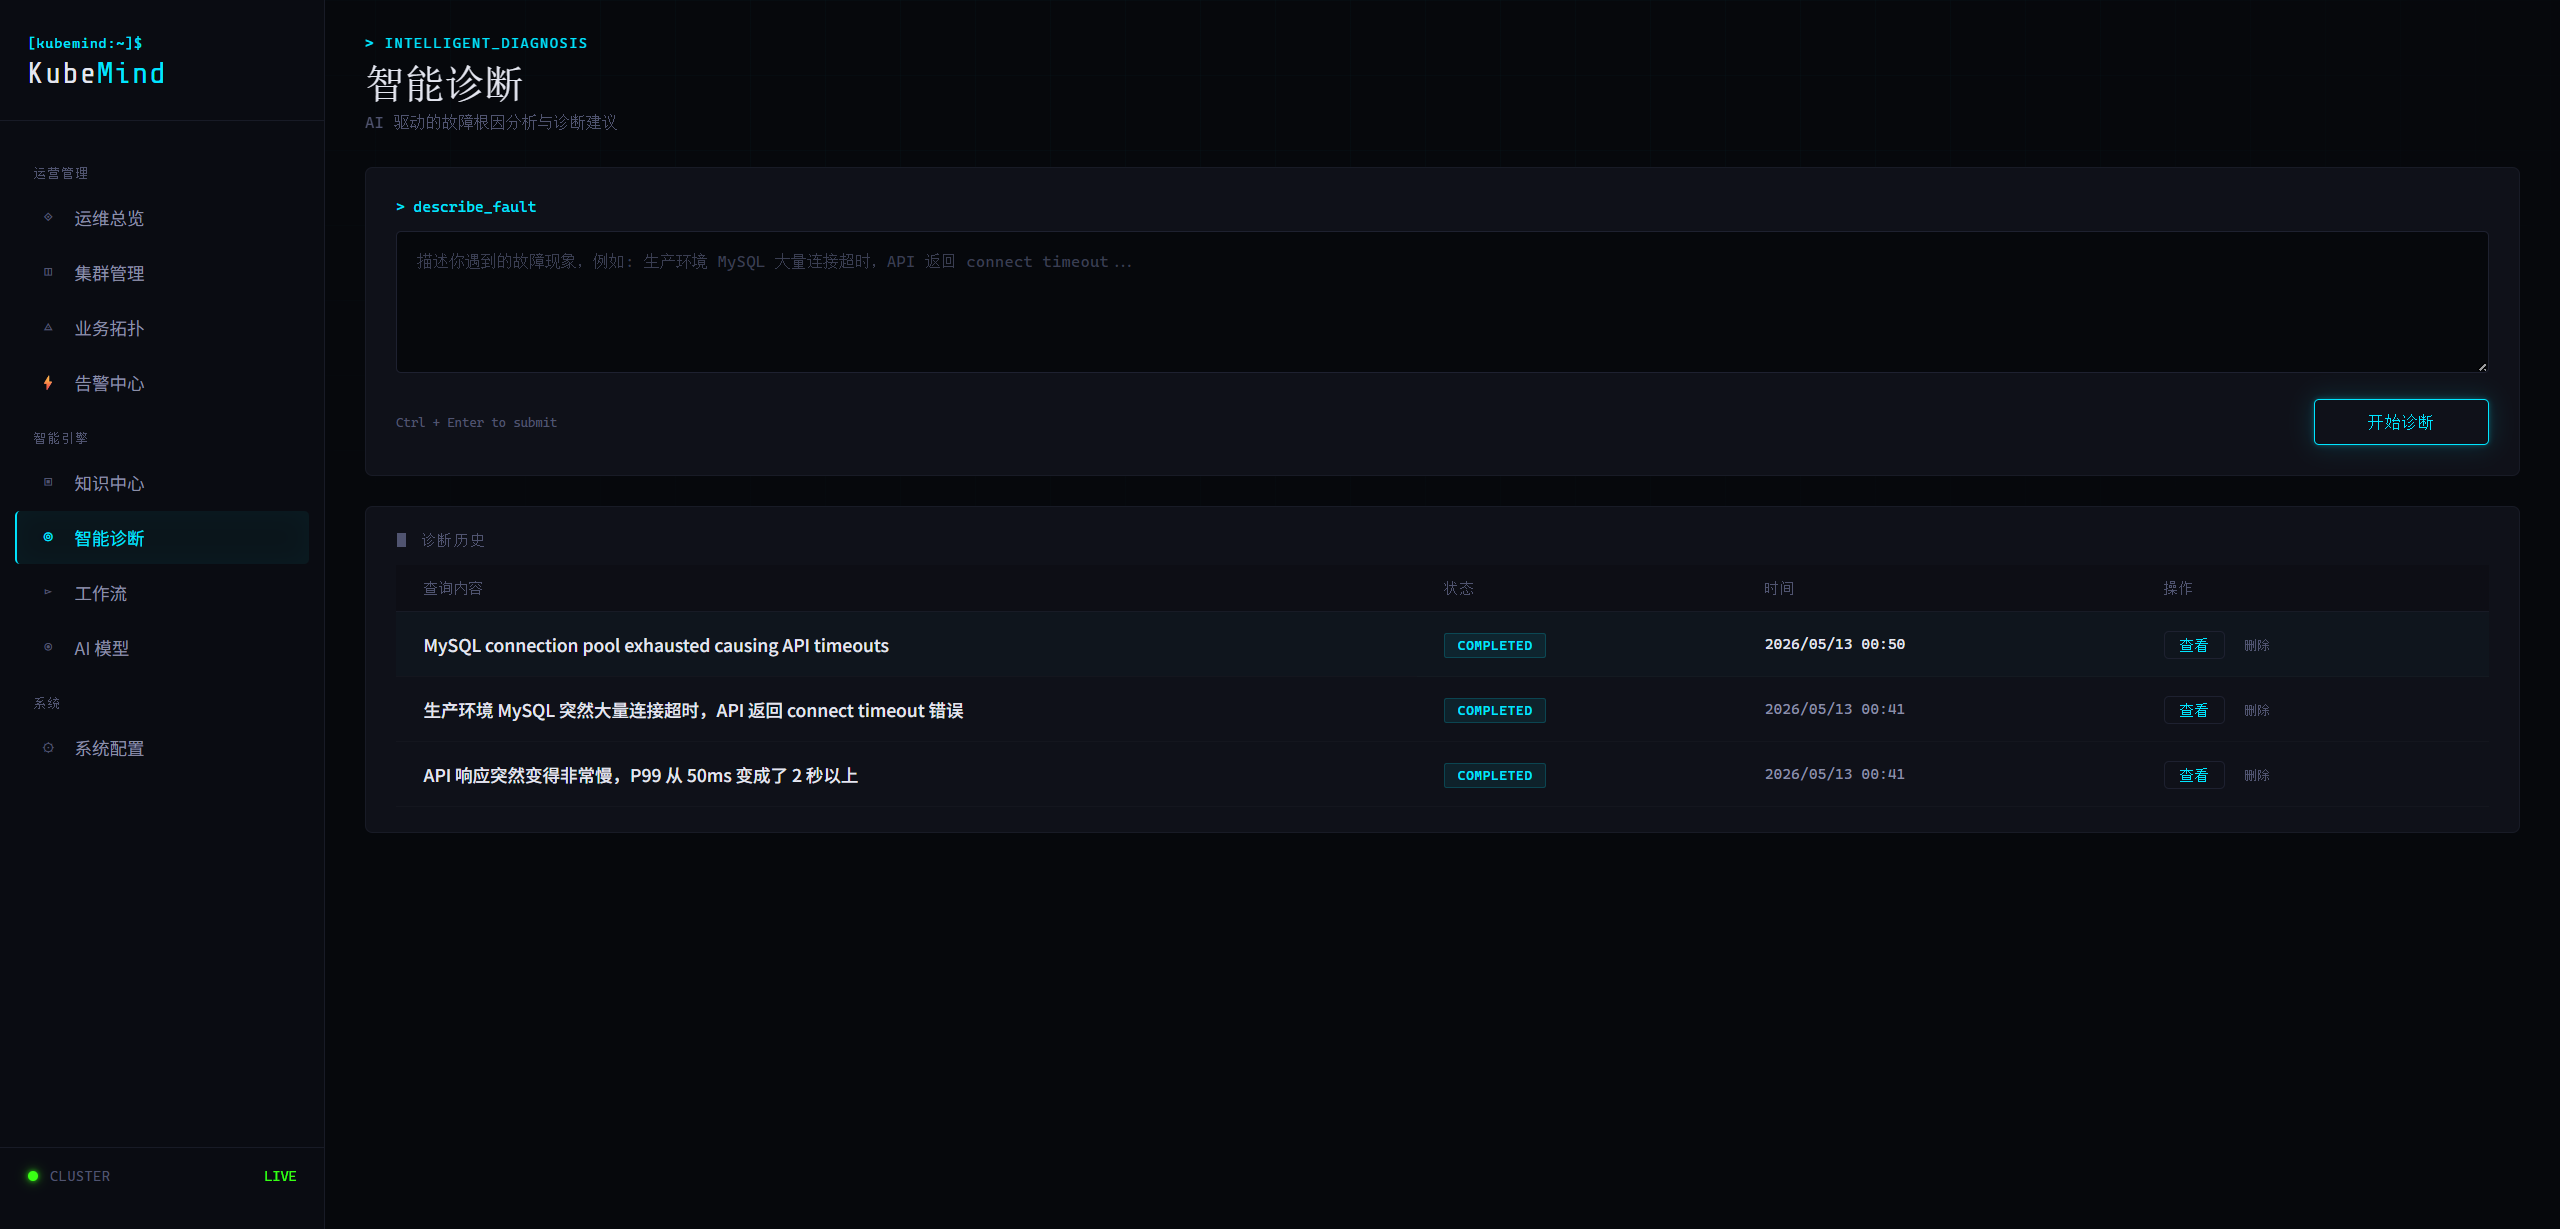
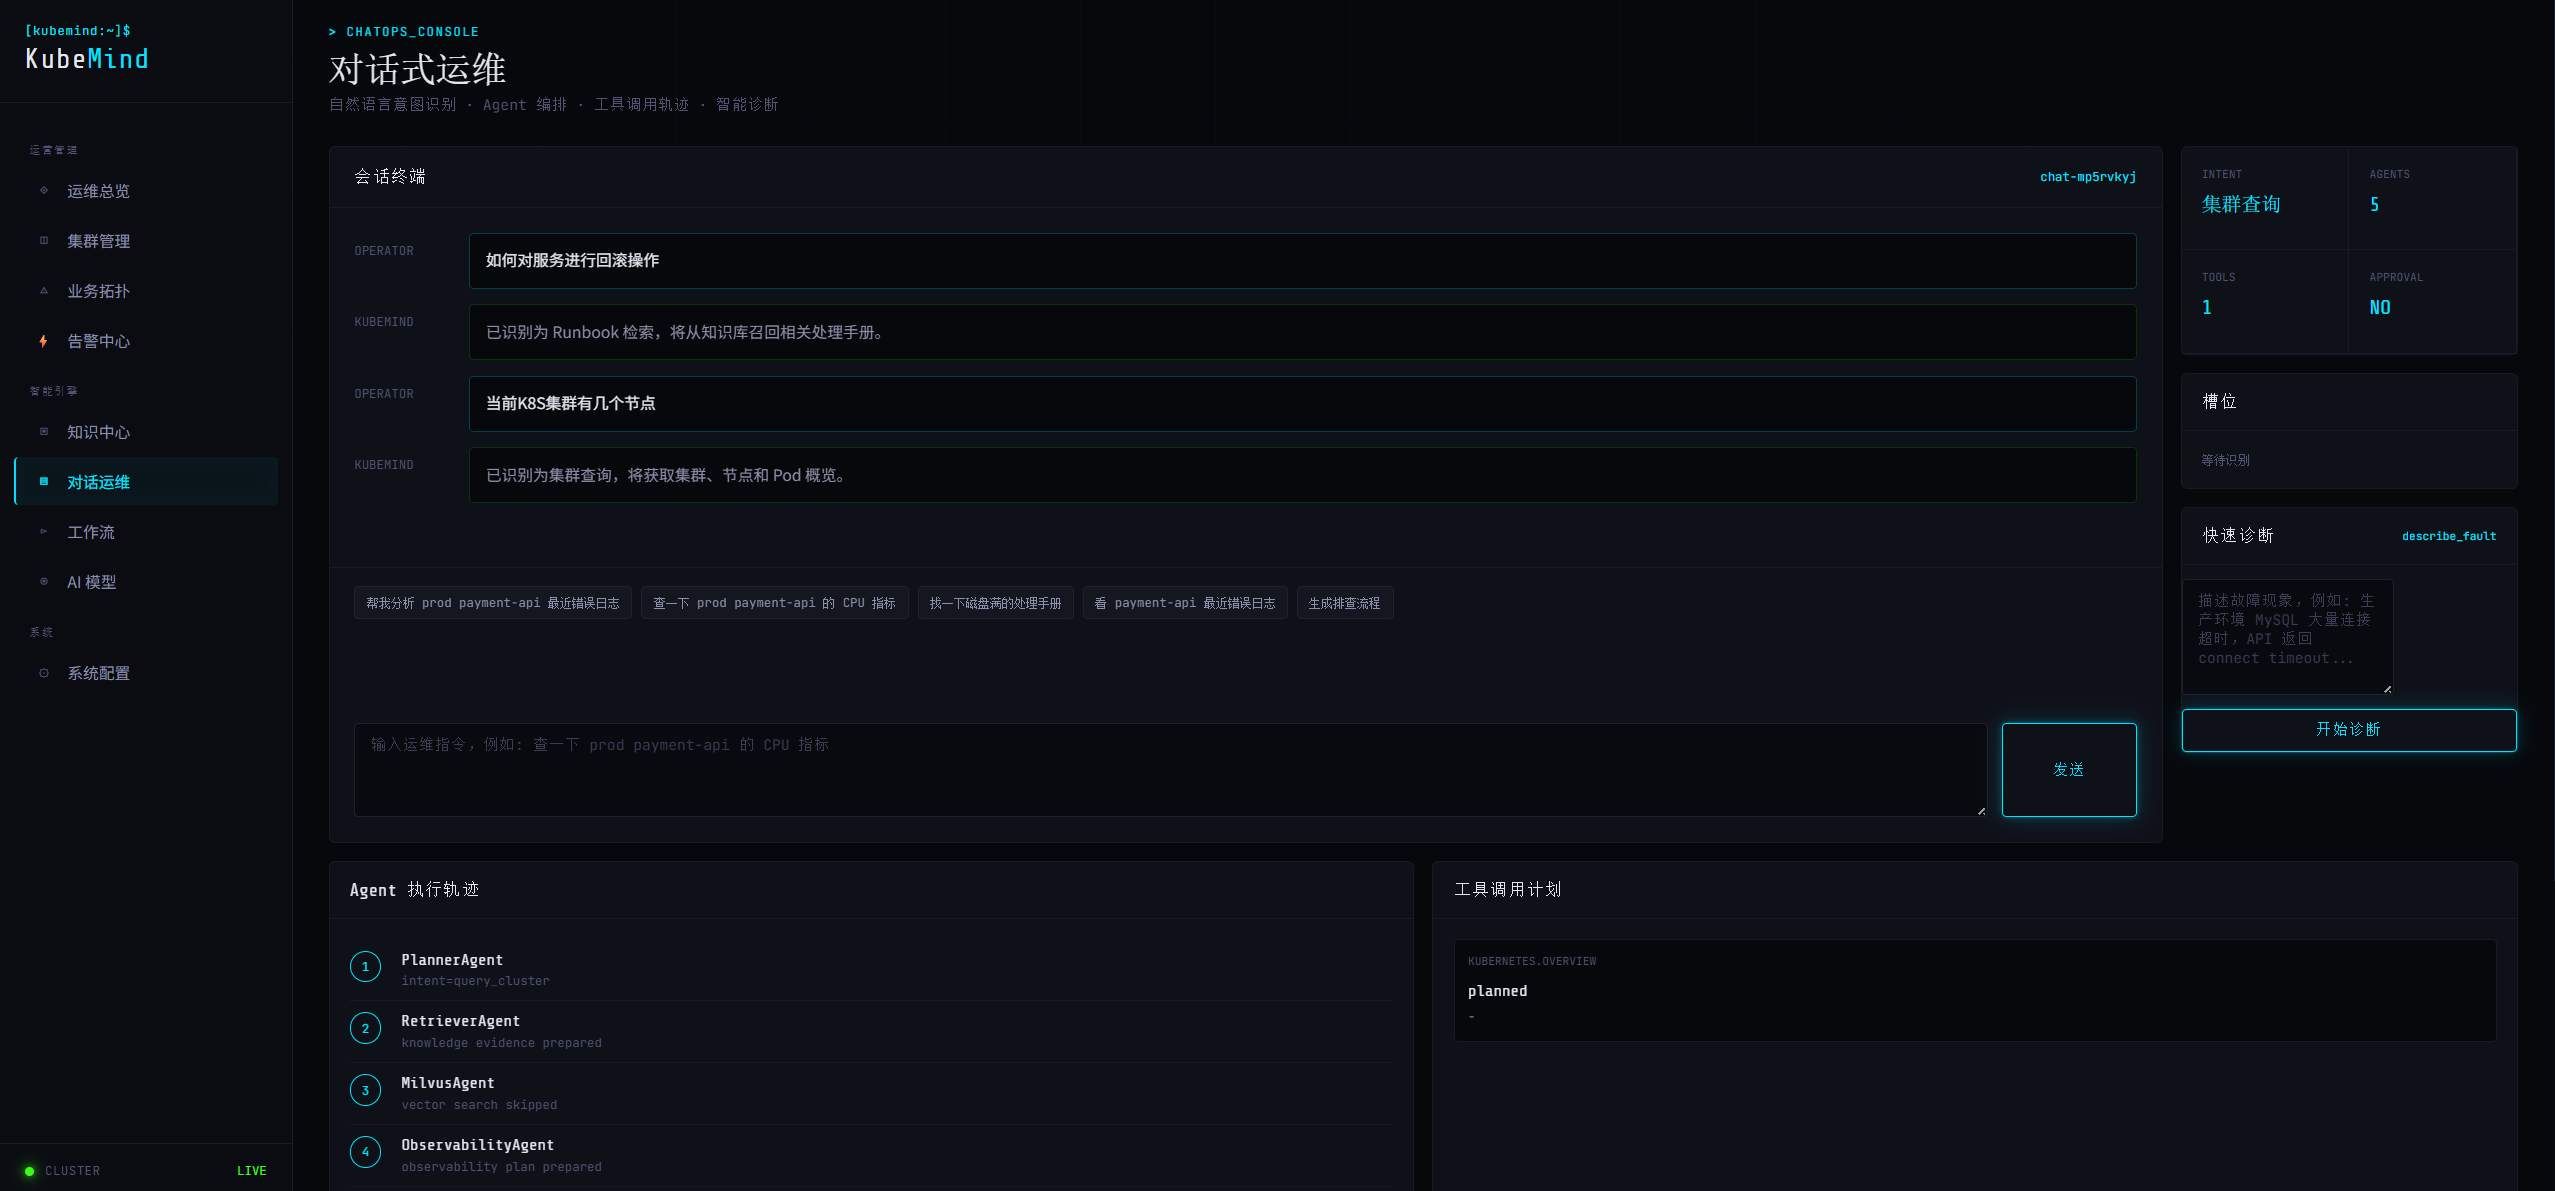
feat: 引入 LangChain 重构 LLM 层，支持混合意图识别策略，更新相关依赖

diff --git a/backend/app/services/llm.py b/backend/app/services/llm.py
@@ -1,9 +1,9 @@
-"""LLM chat completion service — OpenAI-compatible (DeepSeek, OpenAI, etc.)."""
+"""LLM chat completion service — powered by LangChain (OpenAI-compatible)."""
 
-import json
-import urllib.request
 from collections.abc import Generator
 
+from langchain_core.messages import AIMessage, BaseMessage, HumanMessage, SystemMessage
+from langchain_openai import ChatOpenAI
 from sqlalchemy.orm import Session
 
 from app.models.model_config import ModelConfig
@@ -21,6 +21,42 @@ def get_active_llm_config(db: Session) -> ModelConfig | None:
     )
 
 
+def _resolve_config(db: Session, config: ModelConfig | None) -> ModelConfig:
+    if config is None:
+        config = get_active_llm_config(db)
+    if not config:
+        raise LLMError("No active LLM config found")
+    if not config.api_key:
+        raise LLMError("LLM config has no API key")
+    return config
+
+
+def _build_chat_model(config: ModelConfig, temperature: float, max_tokens: int) -> ChatOpenAI:
+    return ChatOpenAI(
+        model=config.model_name,
+        api_key=config.api_key,
+        base_url=f"{config.endpoint.rstrip('/')}",
+        temperature=temperature,
+        max_tokens=max_tokens,
+        timeout=60,
+        max_retries=2,
+    )
+
+
+def _to_langchain_messages(messages: list[dict]) -> list[BaseMessage]:
+    result: list[BaseMessage] = []
+    for msg in messages:
+        role = msg.get("role", "user")
+        content = msg.get("content", "")
+        if role == "system":
+            result.append(SystemMessage(content=content))
+        elif role == "assistant":
+            result.append(AIMessage(content=content))
+        else:
+            result.append(HumanMessage(content=content))
+    return result
+
+
 def chat_completion(
     db: Session,
     messages: list[dict],
@@ -28,31 +64,10 @@ def chat_completion(
     temperature: float = 0.3,
     max_tokens: int = 2048,
 ) -> str:
-    if config is None:
-        config = get_active_llm_config(db)
-    if not config:
-        raise LLMError("No active LLM config found")
-    if not config.api_key:
-        raise LLMError("LLM config has no API key")
-
-    payload = json.dumps({
-        "model": config.model_name,
-        "messages": messages,
-        "temperature": temperature,
-        "max_tokens": max_tokens,
-    }).encode("utf-8")
-
-    req = urllib.request.Request(
-        f"{config.endpoint.rstrip('/')}/chat/completions",
-        data=payload,
-        headers={
-            "Content-Type": "application/json",
-            "Authorization": f"Bearer {config.api_key}",
-        },
-    )
-    with urllib.request.urlopen(req, timeout=60) as resp:
-        body = json.loads(resp.read().decode("utf-8"))
-    return body["choices"][0]["message"]["content"]
+    config = _resolve_config(db, config)
+    model = _build_chat_model(config, temperature, max_tokens)
+    result = model.invoke(_to_langchain_messages(messages))
+    return result.content
 
 
 def chat_completion_stream(
@@ -62,44 +77,9 @@ def chat_completion_stream(
     temperature: float = 0.3,
     max_tokens: int = 2048,
 ) -> Generator[str, None, None]:
-    """Stream chat completion tokens via SSE from an OpenAI-compatible endpoint."""
-    if config is None:
-        config = get_active_llm_config(db)
-    if not config:
-        raise LLMError("No active LLM config found")
-    if not config.api_key:
-        raise LLMError("LLM config has no API key")
-
-    payload = json.dumps({
-        "model": config.model_name,
-        "messages": messages,
-        "temperature": temperature,
-        "max_tokens": max_tokens,
-        "stream": True,
-    }).encode("utf-8")
-
-    req = urllib.request.Request(
-        f"{config.endpoint.rstrip('/')}/chat/completions",
-        data=payload,
-        headers={
-            "Content-Type": "application/json",
-            "Authorization": f"Bearer {config.api_key}",
-        },
-    )
-    with urllib.request.urlopen(req, timeout=120) as resp:
-        for line in resp:
-            line = line.decode("utf-8").strip()
-            if not line or line.startswith(":"):
-                continue
-            if line == "data: [DONE]":
-                break
-            if line.startswith("data: "):
-                data_str = line[6:]
-                try:
-                    chunk = json.loads(data_str)
-                    delta = chunk.get("choices", [{}])[0].get("delta", {})
-                    content = delta.get("content", "")
-                    if content:
-                        yield content
-                except json.JSONDecodeError:
-                    continue
+    """Stream chat completion tokens via LangChain's streaming interface."""
+    config = _resolve_config(db, config)
+    model = _build_chat_model(config, temperature, max_tokens)
+    for chunk in model.stream(_to_langchain_messages(messages)):
+        if chunk.content:
+            yield chunk.content

diff --git a/backend/app/agents/intent.py b/backend/app/agents/intent.py
@@ -1,5 +1,6 @@
 import re
 
+from sqlalchemy.orm import Session
 
 NAMESPACE_PATTERN = re.compile(r"\b(default|prod|dev|test|staging|kube-system)\b", re.IGNORECASE)
 WORKLOAD_PATTERN = re.compile(r"\b([a-z][a-z0-9-]*(?:api|server|service|worker|gateway)[a-z0-9-]*)\b", re.IGNORECASE)
@@ -13,15 +14,18 @@ _GENERAL_CHAT_KEYWORDS = (
 
 _FAULT_KEYWORDS = ("分析", "诊断", "故障", "异常", "超时", "排查问题", "出问题")
 
+_VALID_INTENTS = frozenset({
+    "general_chat", "query_metric", "query_logs", "diagnose_issue",
+    "search_runbook", "create_workflow", "query_cluster",
+})
 
-def classify_intent(message: str) -> str:
+
+def _classify_by_keywords(message: str) -> str | None:
+    """Fast keyword-based classification. Returns None if no confident match."""
     text = message.lower()
 
-    # General chat takes priority — these are not operational requests
     if any(kw in text for kw in _GENERAL_CHAT_KEYWORDS):
         return "general_chat"
-
-    # Explicit operational intents
     if any(keyword in text for keyword in ("生成排查流程", "创建流程", "create workflow")):
         return "create_workflow"
     if any(keyword in text for keyword in ("milvus", "向量库", "向量数据库", "vector")):
@@ -39,7 +43,54 @@ def classify_intent(message: str) -> str:
     if any(keyword in text for keyword in ("集群", "节点", "pod")):
         return "query_cluster"
 
-    # Anything unrecognized is general chat, not a fault
+    return None
+
+
+def _classify_by_llm(message: str, db: Session) -> str | None:
+    """LLM-based intent classification fallback."""
+    try:
+        from app.services.llm import chat_completion
+
+        prompt = (
+            "你是意图分类器。将用户消息分类为以下意图之一：\n"
+            "query_metric, query_logs, diagnose_issue, search_runbook, "
+            "create_workflow, query_cluster, general_chat\n\n"
+            "规则：\n"
+            "- 如果用户在闲聊、问候、询问系统信息，返回 general_chat\n"
+            "- 如果用户想查看指标数据，返回 query_metric\n"
+            "- 如果用户想查看日志，返回 query_logs\n"
+            "- 如果用户描述了故障或想排查问题，返回 diagnose_issue\n"
+            "- 如果用户想找处理手册或文档，返回 search_runbook\n"
+            "- 如果用户想创建流程，返回 create_workflow\n"
+            "- 如果用户想查看集群/节点/Pod状态，返回 query_cluster\n\n"
+            "只输出意图名称，不要其他文字。\n\n"
+            f"用户消息：{message}"
+        )
+        result = chat_completion(
+            db,
+            messages=[{"role": "user", "content": prompt}],
+            temperature=0.0,
+            max_tokens=32,
+        )
+        intent = result.strip().lower().replace('"', "").replace("'", "")
+        if intent in _VALID_INTENTS:
+            return intent
+    except Exception:
+        pass
+    return None
+
+
+def classify_intent(message: str, db: Session | None = None) -> str:
+    """Hybrid intent classification: keywords first, LLM fallback."""
+    result = _classify_by_keywords(message)
+    if result is not None:
+        return result
+
+    if db is not None:
+        llm_result = _classify_by_llm(message, db)
+        if llm_result is not None:
+            return llm_result
+
     return "general_chat"
 
 

diff --git a/backend/app/agents/nodes.py b/backend/app/agents/nodes.py
@@ -3,8 +3,8 @@ from app.agents.state import OpsGraphState
 from app.services.vector_search import search_similar
 
 
-def planner_agent(state: OpsGraphState) -> OpsGraphState:
-    intent = classify_intent(state["user_query"])
+def planner_agent(state: OpsGraphState, db=None) -> OpsGraphState:
+    intent = classify_intent(state["user_query"], db=db)
     entities = extract_entities(state["user_query"])
     state["intent"] = intent
     state["entities"].update(entities)

diff --git a/backend/app/agents/graph.py b/backend/app/agents/graph.py
@@ -21,8 +21,8 @@ def run_ops_graph(state: OpsGraphState) -> OpsGraphState:
 
 
 def run_ops_graph_with_db(state: OpsGraphState, db=None) -> OpsGraphState:
-    for node in (planner_agent, retriever_agent):
-        state = node(state)
+    state = planner_agent(state, db=db)
+    state = retriever_agent(state)
     state = milvus_agent(state, db=db)
     for node in (observability_agent,):
         state = node(state)

diff --git a/backend/app/services/chatops.py b/backend/app/services/chatops.py
@@ -42,7 +42,7 @@ def handle_chatops_message_stream(
     state = create_initial_state(session_id=payload.session_id, user_query=payload.message)
 
     # --- Planner ---
-    state = planner_agent(state)
+    state = planner_agent(state, db=db)
     yield _sse("agent_done", {"agent": "PlannerAgent", "intent": state["intent"], "entities": state["entities"]})
 
     # --- Retriever ---

diff --git a/plan/todolist.md b/plan/todolist.md
@@ -154,3 +154,4 @@
 - 2026-05-14: 新增 P5 高可用、容灾与运营章节（HA/备份/SLO/数据治理/成本/灰度/事故响应/Go-No-Go），同时确认 `.venv` 已可通过 `.\venv\Scripts\activate` 激活（Python 3.11.4），P0–P1 测试阻塞项可解除，待后续 CI 落地。
 - 2026-05-15: 收拢前端功能——**删除独立 智能诊断 页面**，合并至对话运维 `/chatops`（新增快速诊断输入区、Agent 轨迹、根因候选、处置计划面板）；`/diagnosis` → `/chatops` 重定向；后端诊断 API 保持不变供内部 Agent 调用。`npm run build` + 31/31 测试全部通过。
 - 2026-05-15: 完成 P2 故障知识图谱——模型层（KnowledgeEntity + KnowledgeRelationship，支持 k8s_cluster/node/namespace/pod/deployment/alert/case/runbook 等实体类型及 BELONGS_TO/CONTAINS/TRIGGERED_BY/CAUSES/MITIGATES 关系）、服务层（_upsert_entity/_link/build_from_k8s/build_from_runbooks/build_from_cases/rebuild_graph/get_graph_snapshot）、API 层（GET /api/knowledge-graph/graph + POST /api/knowledge-graph/graph/build）、种子数据。**14/14 KG 测试全通过**；全量 29/30（1 个 chatops 测试为已有 flaky 问题，非本次引入）。
+- 2026-05-15: **引入 LangChain 重构 LLM 层**——`llm.py` 从 raw urllib 改为 `langchain-openai` 的 `ChatOpenAI`（支持内置重试、超时、流式输出）；意图识别改为混合策略（关键词优先 + LLM 兜底分类）；`planner_agent` 接入 db 参数支持 LLM 意图分类。依赖新增 `langchain-openai>=0.3` + `langchain-core>=0.3`。**32/32 测试全部通过**。

diff --git a/plan/develop-plan.md b/plan/develop-plan.md
@@ -73,9 +73,9 @@ flowchart TB
     end
 
     subgraph AI[AI 能力层]
-        LLM[大模型问答]
+        LLM[大模型问答<br/>LangChain ChatOpenAI]
         Embedding[Embedding 向量化]
-        Intent[意图识别]
+        Intent[意图识别<br/>关键词 + LLM 混合]
         LSTM[LSTM 时序预测]
     end
 
@@ -461,6 +461,14 @@ RCA 排序特征：
 ```
 
 ### 7.7 对话式运维与意图识别
+
+意图识别采用**混合策略**：关键词匹配优先（零延迟、零成本），未命中时调用 LLM 分类（通过 LangChain ChatOpenAI）。
+
+LLM 层使用 `langchain-openai` 的 `ChatOpenAI`，支持：
+- 动态模型切换（从 DB `model_configs` 表读取 endpoint/api_key/model_name）
+- 内置重试（max_retries=2）和超时（timeout=60s）
+- 流式输出（`.stream()` 方法，用于 ChatOps SSE 端点）
+- 兼容所有 OpenAI 协议的 provider（DeepSeek、OpenAI、Azure、本地 Ollama 等）
 
 首期意图集合：
 
